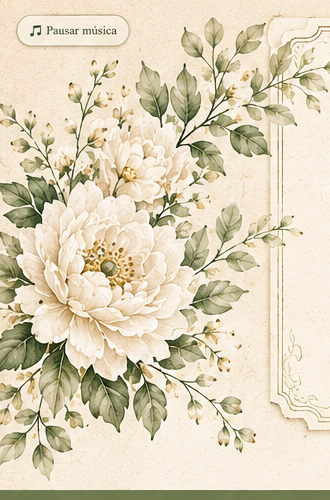
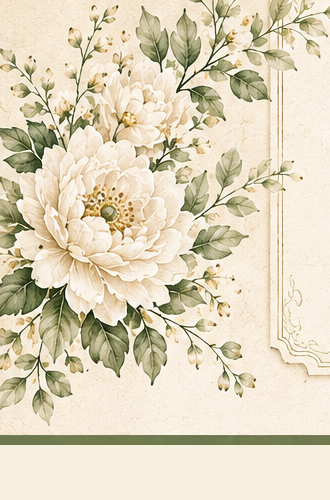
Add files via upload

diff --git a/index.html b/index.html
@@ -21,14 +21,14 @@ h1,h2,h3,.script,.counter-number,footer{font-family:'Cormorant Garamond',Georgia
 .hero{position:relative;min-height:95vh;display:grid;place-items:center;text-align:center;padding:38px 20px 24px;overflow:hidden}.hero-floral{position:absolute;top:0;width:min(40vw,460px);height:72%;background-size:contain;background-repeat:no-repeat;z-index:1}.hero-floral.left{left:-20px;background-image:url('floral_left.png');background-position:left top}.hero-floral.right{right:-20px;background-image:url('floral_right.png');background-position:right top}
 .hero-card{position:relative;z-index:2;width:min(720px,92vw);padding:52px 38px 44px;border:1px solid var(--gold);background:rgba(255,250,240,.72);box-shadow:0 20px 60px rgba(79,74,56,.1)}.hero-card:before{content:"";position:absolute;inset:10px;border:1px solid rgba(185,156,99,.5);pointer-events:none}.hero .eyebrow{letter-spacing:.28em;text-transform:uppercase;font-size:.78rem;color:var(--green)}.hero h1{font-size:clamp(4.8rem,11vw,8.8rem);line-height:.73;font-weight:400;color:var(--green);margin:34px 0 28px}.hero h1 span{display:block}.hero h1 .amp{font-size:.42em;color:var(--gold);margin:.14em 0}.date{font-family:'Cormorant Garamond';font-size:clamp(1.25rem,3vw,1.75rem);letter-spacing:.16em;text-transform:uppercase}.leaf{color:var(--green2);font-size:1.5rem;margin-top:10px}
 nav{position:sticky;top:0;z-index:50;background:var(--green);box-shadow:0 7px 20px rgba(58,70,48,.18)}nav .inner{max-width:1100px;margin:auto;display:flex;justify-content:center;gap:28px;padding:13px 16px;flex-wrap:wrap}nav a{color:white;text-decoration:none;font-family:'Cormorant Garamond';font-size:1rem}
-section{position:relative;padding:74px 20px;overflow:hidden}.wrap{max-width:1050px;margin:auto;position:relative;z-index:2}.title{text-align:center;margin-bottom:36px}.title h2{font-family:Allura,cursive;font-weight:400;color:var(--green);font-size:clamp(3rem,6vw,4.8rem);line-height:1;margin:0}.title p{margin:6px 0;color:#69715f}.title .orn{color:var(--green2);letter-spacing:.2em}
+section{position:relative;padding:74px 20px;overflow:hidden}.wrap{max-width:1050px;margin:auto;position:relative;z-index:2}.title{text-align:center;margin-bottom:36px}.title h2{font-family:Allura,cursive;font-weight:400;color:var(--green);font-size:clamp(3rem,6vw,4.8rem);line-height:1;margin:0;display:flex;align-items:center;justify-content:center;gap:14px}.title-icon,.card-icon{width:34px;height:34px;display:inline-flex;color:var(--gold);flex:0 0 auto}.title-icon svg,.card-icon svg{width:100%;height:100%;stroke:currentColor;fill:none;stroke-width:1.7;stroke-linecap:round;stroke-linejoin:round}.title p{margin:6px 0;color:#69715f}.title .orn{color:var(--green2);letter-spacing:.2em}
 .floral-corner{position:absolute;width:250px;height:330px;opacity:.7;background-size:contain;background-repeat:no-repeat;pointer-events:none}.floral-corner.l{left:-60px;top:10px;background-image:url('floral_left.png')}.floral-corner.r{right:-70px;bottom:-20px;background-image:url('floral_right.png');background-position:right bottom}
 .story-grid{display:grid;grid-template-columns:.85fr 1.2fr;gap:42px;align-items:center}.story-copy{text-align:center;font-family:'Cormorant Garamond';font-size:1.24rem}.story-copy .script{font-size:3.9rem;color:var(--green);display:block;margin-bottom:20px}.polaroids{display:grid;grid-template-columns:1fr 1fr;gap:10px;align-items:center}.polaroid{background:#fff;padding:11px 11px 34px;box-shadow:0 14px 35px rgba(58,58,42,.18);transform:rotate(-3deg)}.polaroid:nth-child(2){transform:rotate(3deg)}.polaroid img{width:100%;height:300px;object-fit:cover;display:block}
 .countdown{margin-top:46px;border:1px solid var(--line);background:rgba(255,250,240,.6);padding:24px}.countdown h3{text-align:center;font-family:Allura;font-size:3.2rem;font-weight:400;color:var(--green);margin:-10px 0 18px}.counter{display:grid;grid-template-columns:repeat(4,1fr)}.counter-item{text-align:center;border-right:1px solid var(--line)}.counter-item:last-child{border:0}.counter-number{font-size:3.15rem;color:var(--green);line-height:1}.counter-label{font-family:'Cormorant Garamond';font-size:.9rem;text-transform:uppercase}
 .dress-grid{display:grid;grid-template-columns:260px 1fr 260px;gap:20px;align-items:end}.dress-person{overflow:hidden}.dress-person img{width:100%;height:auto;display:block;mix-blend-mode:multiply;border:0}.dress-person.image-error:after{content:'Ilustración';display:grid;place-items:center;min-height:280px;border:1px solid var(--line);font-family:'Cormorant Garamond';font-size:1.4rem;color:var(--green);background:rgba(255,250,240,.55)}.dress-copy{text-align:center;padding:15px}.dress-copy h2{font-family:Allura;font-size:4rem;color:var(--green);font-weight:400;margin:0}.dress-copy p{font-family:'Cormorant Garamond';font-size:1.24rem;line-height:1.55;margin:12px 0}.dress-copy strong{font-size:1.4rem;color:var(--green)}
 .rsvp-box{border:1px solid var(--line);background:rgba(255,250,240,.78);padding:34px;box-shadow:0 18px 45px rgba(65,68,51,.08)}form{display:grid;grid-template-columns:1fr 1fr;gap:15px}.field{display:grid;gap:6px}.field.full{grid-column:1/-1}label{font-size:.85rem;color:var(--green)}input,select,textarea{width:100%;padding:13px;border:1px solid #cfc2a7;background:#fffaf1;border-radius:7px;font:inherit;color:var(--ink)}textarea{min-height:96px;resize:vertical}.submit{grid-column:1/-1}.status{text-align:center;grid-column:1/-1;color:var(--green);min-height:22px}
-.info-grid{display:grid;grid-template-columns:repeat(4,1fr);gap:10px}.info-card{border:1px solid var(--line);background:rgba(255,250,240,.72);text-align:center;padding:18px 14px;min-height:300px;display:flex;flex-direction:column}.info-card img{width:100%;height:140px;object-fit:cover;mix-blend-mode:multiply}.info-card h3{font-size:1.35rem;color:var(--green);margin:10px 0 4px}.info-card p{font-family:'Cormorant Garamond';font-size:1.05rem;flex:1}.btn{display:inline-block;padding:10px 16px;border-radius:6px;background:var(--green);color:#fff;text-decoration:none;font-size:.82rem}.gift-note{text-align:center;font-family:'Cormorant Garamond';font-size:1.2rem}.iban{margin:18px auto 0;max-width:620px;padding:16px;border:1px dashed var(--gold);background:#fffaf1;overflow-wrap:anywhere;font-family:Arial}
-footer{text-align:center;background:var(--green);color:white;padding:16px;font-style:italic}.music-control{position:fixed;right:18px;bottom:18px;z-index:1000;border:1px solid rgba(89,111,67,.35);border-radius:999px;background:rgba(255,250,240,.95);color:var(--green);padding:11px 15px;box-shadow:0 8px 26px rgba(58,65,48,.18);font:500 .76rem Montserrat;cursor:pointer}#ytMusic{position:fixed;left:-9999px;width:1px;height:1px}
+.info-grid{display:grid;grid-template-columns:repeat(4,1fr);gap:10px}.info-card{border:1px solid var(--line);background:rgba(255,250,240,.72);text-align:center;padding:18px 14px;min-height:300px;display:flex;flex-direction:column}.info-card img{width:100%;height:140px;object-fit:cover;mix-blend-mode:multiply}.info-card h3{font-size:1.35rem;color:var(--green);margin:10px 0 4px;display:flex;align-items:center;justify-content:center;gap:8px}.card-icon{width:23px;height:23px}.info-card p{font-family:'Cormorant Garamond';font-size:1.05rem;flex:1}.btn{display:inline-block;padding:10px 16px;border-radius:6px;background:var(--green);color:#fff;text-decoration:none;font-size:.82rem}.gift-note{text-align:center;font-family:'Cormorant Garamond';font-size:1.2rem}.iban{margin:18px auto 0;max-width:620px;padding:16px;border:1px dashed var(--gold);background:#fffaf1;overflow-wrap:anywhere;font-family:Arial}
+.enter:not(.hidden)~.music-control{opacity:0;pointer-events:none}.music-control{transition:opacity .25s ease}footer{text-align:center;background:var(--green);color:white;padding:16px;font-style:italic}.music-control{position:fixed;right:18px;bottom:18px;z-index:1000;border:1px solid rgba(89,111,67,.35);border-radius:999px;background:rgba(255,250,240,.95);color:var(--green);padding:11px 15px;box-shadow:0 8px 26px rgba(58,65,48,.18);font:500 .76rem Montserrat;cursor:pointer}#ytMusic{position:fixed;left:-9999px;width:1px;height:1px}
 @media(max-width:820px){nav .inner{gap:14px}nav a{font-size:.88rem}.hero{min-height:88vh}.hero-floral{width:55vw;height:48%}.hero-card{padding:45px 20px}.story-grid{grid-template-columns:1fr}.polaroid img{height:210px}.dress-grid{grid-template-columns:1fr 1fr}.dress-copy{grid-column:1/-1;grid-row:1}.dress-person{max-width:250px;margin:auto}.info-grid{grid-template-columns:1fr 1fr}section{padding:60px 16px}}
 @media(max-width:560px){.enter-card{min-height:82vh;padding:30px 20px}.enter-card:before,.enter-card:after{width:70%;height:43%}.hero-floral{width:65vw;height:40%}.hero-card{margin-top:30px}.hero h1{font-size:4.4rem}.counter-number{font-size:2.25rem}.counter-label{font-size:.7rem}.polaroids{gap:4px}.polaroid{padding:7px 7px 24px}.polaroid img{height:165px}.dress-grid{grid-template-columns:1fr 1fr;gap:4px}.dress-copy h2{font-size:3.2rem}.dress-copy p{font-size:1.08rem}.info-grid{grid-template-columns:1fr}form{grid-template-columns:1fr}.field.full,.submit,.status{grid-column:auto}.rsvp-box{padding:22px 15px}.music-control{right:10px;bottom:10px}}
 </style>
@@ -36,15 +36,15 @@ footer{text-align:center;background:var(--green);color:white;padding:16px;font-s
 <body>
 <div class="enter" id="enterScreen"><div class="enter-card"><div class="enter-content"><small>Nos casamos</small><h2>David<span class="amp">&</span>Estrella</h2><p>3 de octubre de 2026</p><button class="primary" id="enterBtn">♡ Abrir invitación</button></div></div></div>
 <header class="hero" id="inicio"><div class="hero-floral left"></div><div class="hero-floral right"></div><div class="hero-card"><div class="eyebrow">Nos casamos</div><h1><span>David</span><span class="amp">&</span><span>Estrella</span></h1><div class="date">3 de octubre de 2026</div><div class="leaf">❧</div></div></header>
-<nav><div class="inner"><a href="#historia">♡ Nuestra historia</a><a href="#cuenta">▣ Cuenta atrás</a><a href="#dress">♙ Dress code</a><a href="#info">⌖ Información</a><a href="#regalo">🎁 Regalos</a><a href="#confirmar">✉ Confirma tu asistencia</a></div></nav>
+<nav><div class="inner"><a href="#historia">♡ Nuestra historia</a><a href="#cuenta">▣ Cuenta atrás</a><a href="#dress">♙ Dress code</a><a href="#info">⌖ Información</a><a href="#hoteles">⌂ Alojamiento</a><a href="#regalo">♧ Regalos</a><a href="#confirmar">✉ Confirma tu asistencia</a></div></nav>
 <main>
 <section id="historia"><div class="floral-corner l"></div><div class="floral-corner r"></div><div class="wrap"><div class="story-grid"><div class="story-copy"><span class="script">Nuestra historia</span><p>Dos caminos que se cruzaron sin buscarse y que hoy eligen caminar juntos para siempre.</p><p><em>Gracias por acompañarnos en este nuevo comienzo.</em></p></div><div class="polaroids"><figure class="polaroid"><img src="https://images.unsplash.com/photo-1522673607200-164d1b6ce486?auto=format&fit=crop&w=900&q=85" alt="Pareja abrazada"></figure><figure class="polaroid"><img src="https://images.unsplash.com/photo-1523438885200-e635ba2c371e?auto=format&fit=crop&w=900&q=85" alt="Pareja en el campo"></figure></div></div><div class="countdown" id="cuenta"><h3>Cuenta atrás</h3><div class="counter"><div class="counter-item"><div class="counter-number" id="days">0</div><div class="counter-label">Días</div></div><div class="counter-item"><div class="counter-number" id="hours">0</div><div class="counter-label">Horas</div></div><div class="counter-item"><div class="counter-number" id="minutes">0</div><div class="counter-label">Minutos</div></div><div class="counter-item"><div class="counter-number" id="seconds">0</div><div class="counter-label">Segundos</div></div></div></div></div></section>
 <section id="dress"><div class="floral-corner l"></div><div class="floral-corner r"></div><div class="wrap"><div class="dress-grid"><div class="dress-person"><img src="dress_man.png" width="215" height="295" loading="eager" alt="Ilustración de hombre con traje" onerror="this.style.display='none';this.parentElement.classList.add('image-error')"></div><div class="dress-copy"><h2>Dress code</h2><p><strong>Poneos guapos, que no todos los días nos casamos.</strong></p><p>Elegid vuestro mejor conjunto y venid cómodos para disfrutar de principio a fin.</p><p>Lo importante es celebrar, bailar y pasarlo genial juntos.</p></div><div class="dress-person"><img src="dress_woman.png" width="230" height="300" loading="eager" alt="Ilustración de mujer con vestido elegante" onerror="this.style.display='none';this.parentElement.classList.add('image-error')"></div></div></div></section>
 
-<section id="info"><div class="wrap"><div class="info-grid"><article class="info-card"><img src="location_tile.png" alt="Ubicación"><h3>¿Dónde?</h3><p>Finca La Torreta<br>Sant Joan d'Alacant</p><a class="btn" target="_blank" rel="noopener" href="https://www.google.com/maps/search/?api=1&query=Finca+La+Torreta+Avenida+de+Elda+5+Sant+Joan+d%27Alacant">Ver ubicación</a></article><article class="info-card"><img src="hotel_tile.png" alt="Hoteles"><h3>Hoteles</h3><p>Opciones de alojamiento cercanas al evento.</p><a class="btn" href="#hoteles">Ver hoteles</a></article><article class="info-card" id="regalo"><img src="gift_tile.png" alt="Regalos"><h3>Regalos</h3><p>Nuestro mejor regalo es vuestra compañía.</p><a class="btn" href="#detalle-regalo">Ver detalles</a></article><article class="info-card"><img src="gallery_tile.png" alt="Galería"><h3>Galería</h3><p>Algunos momentos que guardamos en el corazón.</p><a class="btn" href="#historia">Ver galería</a></article></div></div></section>
-<section id="hoteles"><div class="wrap"><div class="title"><h2>Alojamiento</h2><p>Opciones cercanas para descansar después de celebrarlo todo.</p></div><div class="info-grid" style="grid-template-columns:repeat(2,1fr);max-width:760px;margin:auto"><article class="info-card" style="min-height:220px"><h3>Hotel Alicante Golf</h3><p>Hotel de 4 estrellas en Playa de San Juan.</p><a class="btn" target="_blank" rel="noopener" href="https://www.google.com/maps/search/?api=1&query=Hotel+Alicante+Golf">Ver en Google Maps</a></article><article class="info-card" style="min-height:220px"><h3>Port Alicante City & Beach</h3><p>Hotel de 4 estrellas cercano a Playa de San Juan.</p><a class="btn" target="_blank" rel="noopener" href="https://www.google.com/maps/search/?api=1&query=Port+Alicante+City+%26+Beach">Ver en Google Maps</a></article></div></div></section>
-<section id="detalle-regalo"><div class="wrap"><div class="title"><h2>Regalo</h2><p>Lo más importante es compartir este día con vosotros.</p></div><div class="gift-note"><p>Para quienes además queráis ayudarnos a comenzar esta nueva etapa, os dejamos nuestro número de cuenta.</p><div class="iban">ES00 0000 0000 0000 0000 0000</div><small>Número provisional. Sustituidlo por el IBAN definitivo.</small></div></div></section>
-<section id="confirmar"><div class="floral-corner l"></div><div class="floral-corner r"></div><div class="wrap rsvp-box"><div class="title"><h2>Confirma tu asistencia</h2><p>Tu presencia es nuestro mejor regalo, pero necesitamos saber si podrás acompañarnos.</p><div class="orn">❧ ❧ ❧</div></div><form id="rsvp"><div class="field"><label for="nombre">Nombre y apellidos</label><input id="nombre" name="nombre" required></div><div class="field"><label for="asistencia">¿Podrás acompañarnos?</label><select id="asistencia" name="asistencia" required><option value="">Selecciona una opción</option><option value="Sí">Sí, allí estaré</option><option value="No">No podré asistir</option></select></div><div class="field"><label for="acompanantes">Número total de asistentes</label><input id="acompanantes" name="acompanantes" type="number" min="1" value="1"></div><div class="field"><label for="ninos">¿Vendrán niños?</label><select id="ninos" name="ninos" required><option value="">Selecciona una opción</option><option value="No">No</option><option value="Sí">Sí</option></select></div><div class="field"><label for="numero_ninos">Número de niños</label><input id="numero_ninos" name="numero_ninos" type="number" min="0" value="0"></div><div class="field"><label for="alergias">Alergias o menú especial</label><input id="alergias" name="alergias" placeholder="Déjalo en blanco si no hay ninguna"></div><button class="primary submit" type="submit">✉ Enviar confirmación</button><div class="status" id="status"></div></form></div></section>
+<section id="info"><div class="wrap"><div class="info-grid"><article class="info-card"><img src="location_tile.png" alt="Ubicación"><h3><span class="card-icon" aria-hidden="true"><svg viewBox="0 0 24 24"><path d="M12 21s6-5.2 6-11a6 6 0 1 0-12 0c0 5.8 6 11 6 11Z"/><circle cx="12" cy="10" r="2"/></svg></span>¿Dónde?</h3><p>Finca La Torreta<br>Sant Joan d'Alacant</p><a class="btn" target="_blank" rel="noopener" href="https://www.google.com/maps/search/?api=1&query=Finca+La+Torreta+Avenida+de+Elda+5+Sant+Joan+d%27Alacant">Ver ubicación</a></article><article class="info-card"><img src="hotel_tile.png" alt="Hoteles"><h3><span class="card-icon" aria-hidden="true"><svg viewBox="0 0 24 24"><path d="M3 11 12 3l9 8"/><path d="M5 10v11h14V10"/><path d="M9 21v-7h6v7"/></svg></span>Alojamiento</h3><p>Opciones de alojamiento cercanas al evento.</p><a class="btn" href="#hoteles">Ver hoteles</a></article><article class="info-card" id="regalo"><img src="gift_tile.png" alt="Regalos"><h3><span class="card-icon" aria-hidden="true"><svg viewBox="0 0 24 24"><rect x="3" y="8" width="18" height="13" rx="1"/><path d="M12 8v13M3 12h18"/><path d="M12 8H8.5A2.5 2.5 0 1 1 12 4.5V8Zm0 0h3.5A2.5 2.5 0 1 0 12 4.5V8Z"/></svg></span>Regalos</h3><p>Nuestro mejor regalo es vuestra compañía.</p><a class="btn" href="#detalle-regalo">Ver detalles</a></article><article class="info-card"><img src="gallery_tile.png" alt="Galería"><h3><span class="card-icon" aria-hidden="true"><svg viewBox="0 0 24 24"><rect x="3" y="6" width="18" height="15" rx="2"/><path d="M8 6l1.2-2h5.6L16 6"/><circle cx="12" cy="13" r="4"/></svg></span>Galería</h3><p>Algunos momentos que guardamos en el corazón.</p><a class="btn" href="#historia">Ver galería</a></article></div></div></section>
+<section id="hoteles"><div class="wrap"><div class="title"><h2><span class="title-icon" aria-hidden="true"><svg viewBox="0 0 24 24"><path d="M3 11 12 3l9 8"/><path d="M5 10v11h14V10"/><path d="M9 21v-7h6v7"/></svg></span>Alojamiento</h2><p>Opciones cercanas para descansar después de celebrarlo todo.</p></div><div class="info-grid" style="grid-template-columns:repeat(2,1fr);max-width:760px;margin:auto"><article class="info-card" style="min-height:220px"><h3>Hotel Alicante Golf</h3><p>Hotel de 4 estrellas en Playa de San Juan.</p><a class="btn" target="_blank" rel="noopener" href="https://www.google.com/maps/search/?api=1&query=Hotel+Alicante+Golf">Ver en Google Maps</a></article><article class="info-card" style="min-height:220px"><h3>Port Alicante City & Beach</h3><p>Hotel de 4 estrellas cercano a Playa de San Juan.</p><a class="btn" target="_blank" rel="noopener" href="https://www.google.com/maps/search/?api=1&query=Port+Alicante+City+%26+Beach">Ver en Google Maps</a></article></div></div></section>
+<section id="detalle-regalo"><div class="wrap"><div class="title"><h2><span class="title-icon" aria-hidden="true"><svg viewBox="0 0 24 24"><rect x="3" y="8" width="18" height="13" rx="1"/><path d="M12 8v13M3 12h18"/><path d="M12 8H8.5A2.5 2.5 0 1 1 12 4.5V8Zm0 0h3.5A2.5 2.5 0 1 0 12 4.5V8Z"/></svg></span>Regalo</h2><p>Lo más importante es compartir este día con vosotros.</p></div><div class="gift-note"><p>Para quienes además queráis ayudarnos a comenzar esta nueva etapa, os dejamos nuestro número de cuenta.</p><div class="iban">ES00 0000 0000 0000 0000 0000</div><small>Número provisional. Sustituidlo por el IBAN definitivo.</small></div></div></section>
+<section id="confirmar"><div class="floral-corner l"></div><div class="floral-corner r"></div><div class="wrap rsvp-box"><div class="title"><h2><span class="title-icon" aria-hidden="true"><svg viewBox="0 0 24 24"><rect x="3" y="5" width="18" height="14" rx="2"/><path d="m4 7 8 6 8-6"/></svg></span>Confirma tu asistencia</h2><p>Tu presencia es nuestro mejor regalo, pero necesitamos saber si podrás acompañarnos.</p><div class="orn">❧ ❧ ❧</div></div><form id="rsvp"><div class="field"><label for="nombre">Nombre y apellidos</label><input id="nombre" name="nombre" required></div><div class="field"><label for="asistencia">¿Podrás acompañarnos?</label><select id="asistencia" name="asistencia" required><option value="">Selecciona una opción</option><option value="Sí">Sí, allí estaré</option><option value="No">No podré asistir</option></select></div><div class="field"><label for="acompanantes">Número total de asistentes</label><input id="acompanantes" name="acompanantes" type="number" min="1" value="1"></div><div class="field"><label for="ninos">¿Vendrán niños?</label><select id="ninos" name="ninos" required><option value="">Selecciona una opción</option><option value="No">No</option><option value="Sí">Sí</option></select></div><div class="field"><label for="numero_ninos">Número de niños</label><input id="numero_ninos" name="numero_ninos" type="number" min="0" value="0"></div><div class="field"><label for="alergias">Alergias o menú especial</label><input id="alergias" name="alergias" placeholder="Déjalo en blanco si no hay ninguna"></div><button class="primary submit" type="submit">✉ Enviar confirmación</button><div class="status" id="status"></div></form></div></section>
 </main>
 <footer>Gracias por ser parte de nuestra historia ♡</footer>
 <div id="ytMusic" aria-hidden="true"></div><button id="musicControl" class="music-control" type="button">♫ Activar música</button>
@@ -52,12 +52,14 @@ footer{text-align:center;background:var(--green);color:white;padding:16px;font-s
 const FORM_URL='https://script.google.com/macros/s/AKfycbyYnKiNgBC9SGEVlTJLwt45SB8l2GZcLnjb9gw_-Y0QRXm969hPyEhpWYRDAYpcjz1K/exec';
 const form=document.getElementById('rsvp'),statusEl=document.getElementById('status');
 form.addEventListener('submit',async e=>{e.preventDefault();statusEl.textContent='Enviando...';const data=new FormData(form);try{await fetch(FORM_URL,{method:'POST',body:data,mode:'no-cors'});statusEl.textContent='¡Gracias! Tu confirmación ha sido enviada.';form.reset()}catch(err){statusEl.textContent='No se ha podido enviar. Inténtalo de nuevo.'}});
-let player,ready=false,wantsMusic=false;const control=document.getElementById('musicControl');
-window.onYouTubeIframeAPIReady=()=>{player=new YT.Player('ytMusic',{height:'1',width:'1',videoId:'xdI_3GdLt8g',playerVars:{autoplay:0,controls:0,loop:1,playlist:'xdI_3GdLt8g',playsinline:1,rel:0},events:{onReady:e=>{ready=true;e.target.setVolume(35);if(wantsMusic)e.target.playVideo()},onStateChange:e=>control.textContent=e.data===YT.PlayerState.PLAYING?'❚❚ Pausar música':'♫ Activar música'}})};
-function startMusic(){wantsMusic=true;if(ready&&player)player.playVideo()}
-document.getElementById('enterBtn').addEventListener('click',()=>{startMusic();document.getElementById('enterScreen').classList.add('hidden');sessionStorage.setItem('weddingOpened','1')});
-if(sessionStorage.getItem('weddingOpened')==='1')document.getElementById('enterScreen').classList.add('hidden');
-control.addEventListener('click',()=>{if(!ready||!player){startMusic();return}player.getPlayerState()===YT.PlayerState.PLAYING?player.pauseVideo():player.playVideo()});
+let player=null,ready=false,wantsMusic=false,isPlaying=false;const control=document.getElementById('musicControl');
+function setMusicLabel(){control.textContent=isPlaying?'❚❚ Pausar música':'▶ Reproducir música';control.setAttribute('aria-pressed',String(isPlaying));}
+window.onYouTubeIframeAPIReady=()=>{player=new YT.Player('ytMusic',{height:'1',width:'1',videoId:'xdI_3GdLt8g',playerVars:{autoplay:0,controls:0,loop:1,playlist:'xdI_3GdLt8g',playsinline:1,rel:0,origin:location.origin},events:{onReady:e=>{ready=true;e.target.setVolume(35);if(wantsMusic)e.target.playVideo();},onStateChange:e=>{isPlaying=e.data===YT.PlayerState.PLAYING;setMusicLabel();}}})};
+function startMusic(){wantsMusic=true;if(ready&&player){player.playVideo();isPlaying=true;setMusicLabel();}}
+document.getElementById('enterBtn').addEventListener('click',()=>{document.getElementById('enterScreen').classList.add('hidden');sessionStorage.setItem('weddingOpened','1');startMusic();});
+if(sessionStorage.getItem('weddingOpened')==='1'){document.getElementById('enterScreen').classList.add('hidden');}
+control.addEventListener('click',()=>{wantsMusic=true;if(!ready||!player){setMusicLabel();return;}const state=player.getPlayerState();if(state===YT.PlayerState.PLAYING){player.pauseVideo();isPlaying=false;}else{player.playVideo();isPlaying=true;}setMusicLabel();});
+setMusicLabel();
 function updateCountdown(){const target=new Date('2026-10-03T18:00:00+02:00').getTime();const diff=Math.max(0,target-Date.now());days.textContent=Math.floor(diff/86400000);hours.textContent=Math.floor(diff%86400000/3600000);minutes.textContent=Math.floor(diff%3600000/60000);seconds.textContent=Math.floor(diff%60000/1000)}updateCountdown();setInterval(updateCountdown,1000);
 const api=document.createElement('script');api.src='https://www.youtube.com/iframe_api';document.head.appendChild(api);
 </script>
